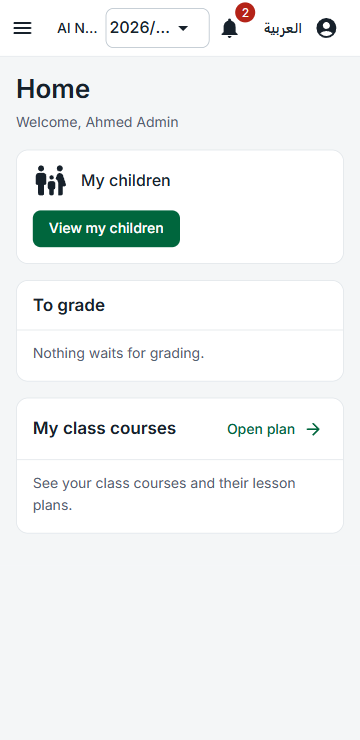
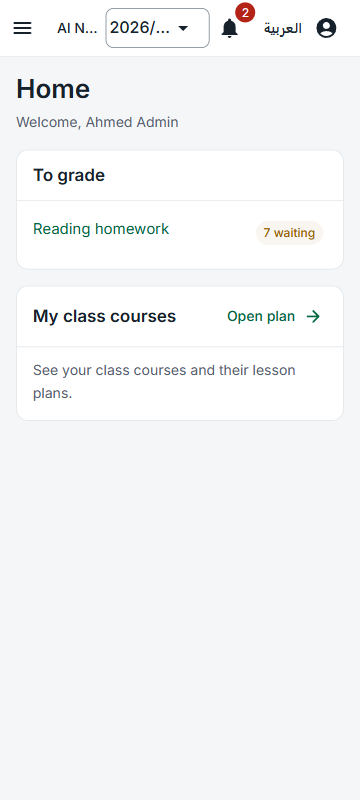
style(client): Home uses PageHeader, SectionCard and LoadingState; one filled Continue; overdue word; screenshots retaken
Designer review of #506: Home had no h1 and a MudCard with an inline style; up to three filled Continue buttons. Not-started text at 0 of 0, an Overdue word and icon beside the red chip, outlined error alert. Screenshots are retaken from this branch's standalone dev server.

diff --git a/tests/Lms.Client.Tests/Pages/HomeCardsTests.cs b/tests/Lms.Client.Tests/Pages/HomeCardsTests.cs
@@ -48,6 +48,30 @@ public sealed class HomeCardsTests : LessonPlansTestContext
     }
 
     [Fact]
+    public async Task Home_has_one_h1_title_with_the_welcome_as_its_subtitle()
+    {
+        var page = await OpenAsync(Permissions.LessonPlans.View);
+
+        page.WaitForElement("[data-testid=home-title]", Wait);
+        Assert.Single(page.FindAll("h1"));
+        Assert.Contains("Welcome", page.Markup);
+    }
+
+    [Fact]
+    public async Task Home_keeps_one_filled_continue_button_and_the_others_are_secondary()
+    {
+        SeedManual();
+        var page = await OpenAsync(Permissions.Modules.View, Permissions.LessonPlans.View);
+        page.WaitForElement("[data-testid=home-continue-learning]", Wait);
+
+        var continues = page.FindAll("[data-testid^=home-learn-continue-]");
+
+        Assert.NotEmpty(continues);
+        Assert.Single(continues.Where(b => b.ClassList.Contains("mud-button-filled")).ToList());
+        Assert.All(continues.Skip(1), b => Assert.Contains("mud-button-outlined", b.ClassList));
+    }
+
+    [Fact]
     public async Task Home_cards_depend_on_permissions_teacher_gets_no_student_cards()
     {
         SeedManual();
